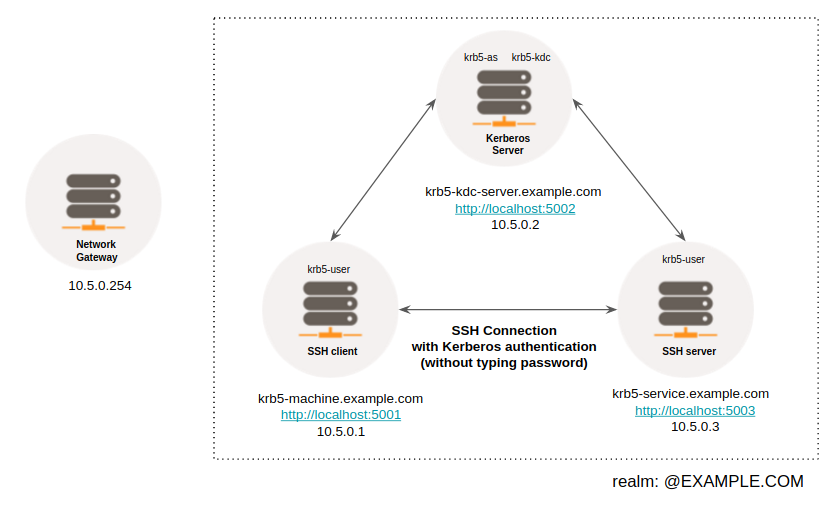
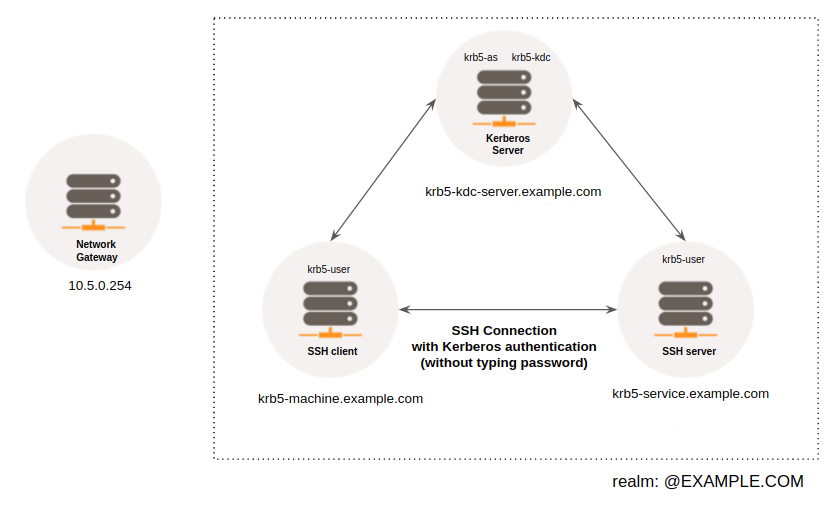
Modify port for python server to 8080
That for all services

Changed region(s): [[0.5281, 0.3721, 0.6834, 0.4651], [0.3417, 0.7752, 0.4659, 0.8682], [0.7455, 0.7752, 0.9008, 0.8372]]

diff --git a/README.md b/README.md
@@ -31,9 +31,9 @@ To run tests, install **Bats**, see `./.ci/install.sh`.
 
 After installation, there are 3 docker containers with python web server on each one to check if it turns:
 
-- `krb5-machine`: see http://10.5.0.1:5001
-- `krb5-kdc-server`: see http://10.5.0.2:5002
-- `krb5-service`: see http://10.5.0.3:5003
+- `krb5-machine`
+- `krb5-kdc-server`
+- `krb5-service`
 
 The goal is to connect from `krb5-machine` to `krb5-service` with ssh and Kerberos authentication (using GSSAPIAuthentication).
 
